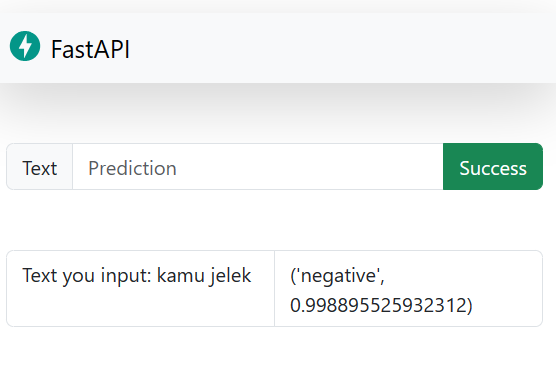
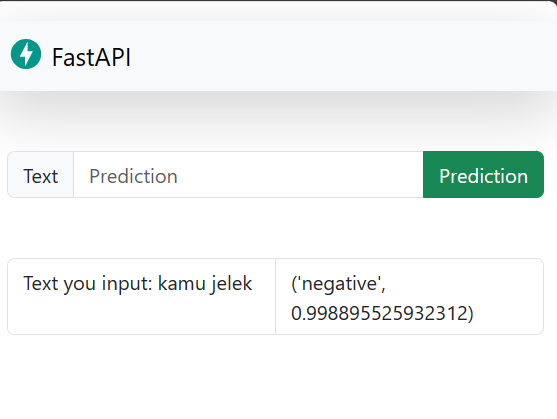
fixing

diff --git a/templates/item.html b/templates/item.html
@@ -39,7 +39,7 @@
           name="query"
         />
         <button type="submit" class="btn btn-success" value="Submit">
-          Success
+          Prediction
         </button>
       </div>
       {% if result %}

diff --git a/README.md b/README.md
@@ -8,7 +8,8 @@
 <h1 align="center" style=" margin-top: 35px">How To use </h1>
  
 
-> python -m venv
+> python -m venv 
+
 > pip install -r requirements.txt
 
 
